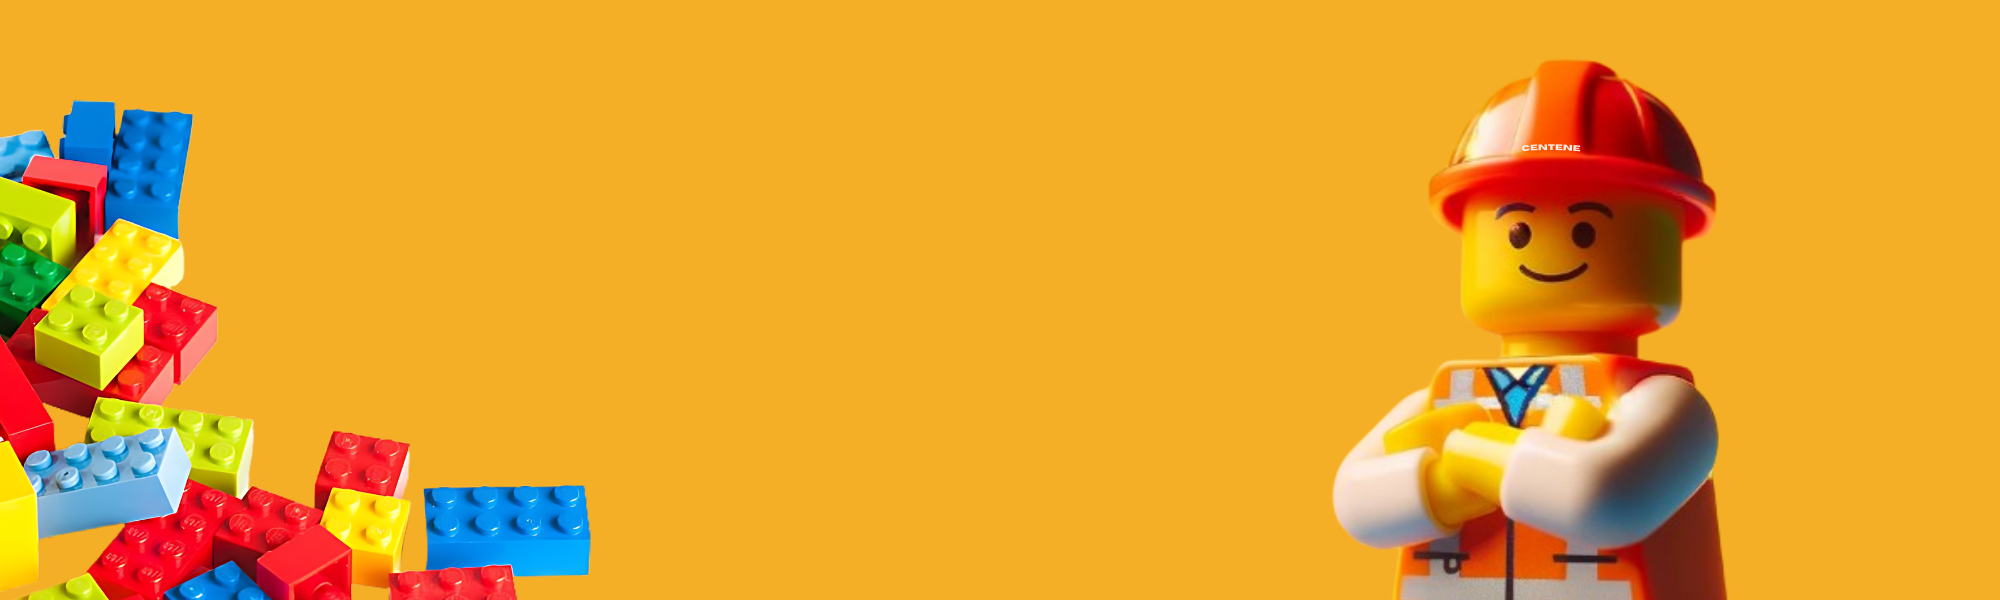
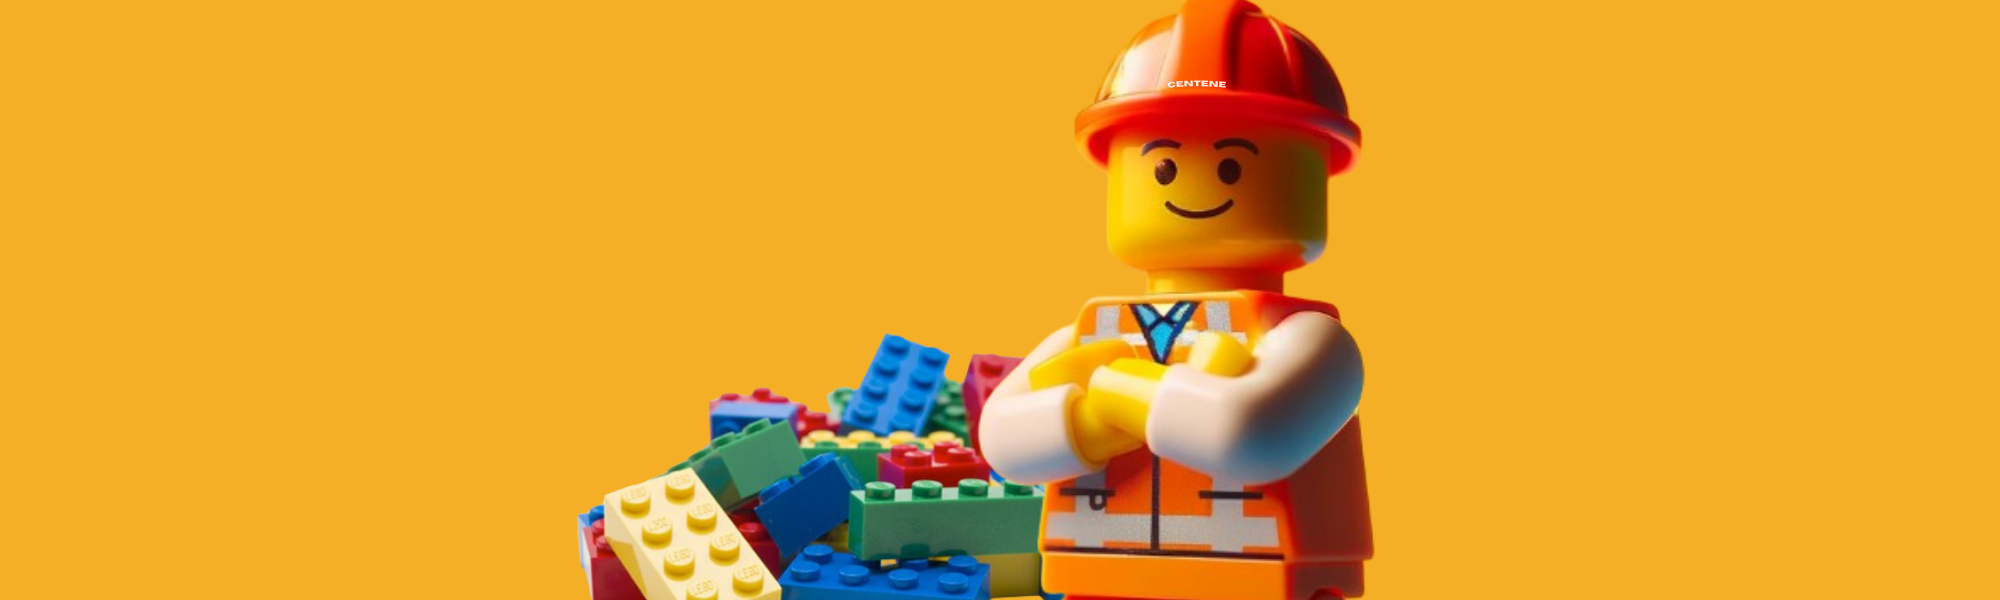
Update navigation script for mobile

diff --git a/index.html b/index.html
@@ -51,8 +51,6 @@
 								<h2>Architecture Day 2024</h2>
 								<p>Building blocks for our future.</p>
 							</header>
-							<img src="./images/legoguy2.png" id="logo-right" class="logo">
-							<img src="./images/legomess.png" id="logo-left" class="logo">
 						</section>
 
 					<!-- Intro -->
@@ -333,9 +331,8 @@
 						</div>
 					</div>
 				</section>
-
-			<!-- Footer -->
-				<!-- Footer -->
+		
+<!-- Footer -->				
 <section id="footer">
     <div class="container">
         <header>
@@ -361,22 +358,36 @@
 				document.addEventListener('DOMContentLoaded', function () {
 					const navLinks = document.querySelectorAll('#nav a'); // Select all anchor tags inside the nav element
 			
-					navLinks.forEach(link => {
-						link.addEventListener('click', function (event) {
-							const targetId = event.target.getAttribute('href'); // Get the href attribute of the clicked link
-							const targetDetails = document.querySelector(targetId); // Select the details element by ID
+					const handleNavClick = (event) => {
+						event.preventDefault(); // Prevent default anchor click behavior
+						console.log('Nav link clicked:', event.target); // Debug statement
 			
-							if (targetDetails) {
-								targetDetails.open = true; // Open the details element
-								// Optionally close other details elements
-								document.querySelectorAll('details').forEach(detail => {
-									if (detail.id !== targetDetails.id) detail.open = false;
-								});
-							}
-						});
+						const targetId = event.target.getAttribute('href'); // Get the href attribute of the clicked link
+						const targetDetails = document.querySelector(targetId); // Select the details element by ID
+			
+						if (targetDetails) {
+							console.log('Target details found:', targetDetails); // Debug statement
+							targetDetails.open = true; // Open the details element
+			
+							// Optionally close other details elements
+							document.querySelectorAll('details').forEach(detail => {
+								if (detail.id !== targetDetails.id) detail.open = false;
+							});
+			
+							// Scroll to the target element smoothly
+							targetDetails.scrollIntoView({ behavior: 'smooth' });
+						} else {
+							console.log('Target details not found for:', targetId); // Debug statement
+						}
+					};
+			
+					navLinks.forEach(link => {
+						link.addEventListener('click', handleNavClick);
+						link.addEventListener('touchstart', handleNavClick); // Add touchstart event for mobile devices
 					});
 				});
 			</script>
+
 
 			<!--schedule functionality-->
 			<script>

diff --git a/assets/css/main.css b/assets/css/main.css
@@ -31,6 +31,9 @@ footer, header, hgroup, menu, nav, section {
 
 body {
 	line-height: 1;
+	margin: 0;
+    padding: 0;
+    overflow-x: hidden;
 }
 
 ol, ul {
@@ -2174,8 +2177,9 @@ input, select, textarea {
 
 	#banner {
 		background: #F4AF27;
-		background-position: center center;
-		background-size: auto 100%;
+		background-image: url('../../images/Legobanner2.png');
+		background-position: center;
+		background-size: cover;
 		background-repeat: no-repeat;
 		text-align: center;
 		position: relative;
@@ -2191,17 +2195,10 @@ input, select, textarea {
 		top: 50%;
 		transform: translateY(-50%);
 	}
-	
-	#logo-left {
-		left: 20px; /* Adjust spacing from the left */
-	}
-	
-	#logo-right {
-		right: 20px; /* Adjust spacing from the right */
-	}
+
 
 		#banner header {
-			background-color: rgba(34, 30, 31, 0.98);
+			background-color: rgba(34, 30, 31, 0.7); /* Adjusted for more transparency */
 			display: inline-block;
 			padding: 2.5em 5em;
 			border-radius: 5px;
@@ -2215,7 +2212,7 @@ input, select, textarea {
 			}
 
 			#banner header p {
-				color: #d52349;
+				color: #e6e1e2;
 				padding: 0;
 				font-style: normal;
 				margin: 0;
@@ -2964,6 +2961,32 @@ input, select, textarea {
 		margin-top: 20px;
 	}
 
+	/* Make the schedule section responsive */
+#schedule {
+    width: 100%;
+    overflow-x: auto;
+    padding: 1em;
+}
+
+/* Make table responsive */
+#schedule table {
+    width: 100%;
+    border-collapse: collapse;
+    table-layout: fixed;
+}
+
+#schedule table th, #schedule table td {
+    padding: 0.5em;
+    text-align: left;
+    word-wrap: break-word; /* Ensure content wraps within the cell */
+}
+
+.schedule-nav {
+    display: flex;
+    justify-content: space-around;
+    margin-bottom: 1em;
+}
+
 	.day-btn {
 		background-color: #F4AF27; /* Default background color */
 		color: #333; /* Default text color */
@@ -2984,6 +3007,21 @@ input, select, textarea {
 		color: #fff; /* White text color for contrast */
 	}
 	
-	
+/* Adjusting for small screens */
+@media screen and (max-width: 768px) {
+    #schedule table th, #schedule table td {
+        padding: 0.3em;
+        font-size: 0.9em;
+    }
+
+    .schedule-nav {
+        flex-direction: column;
+        align-items: stretch;
+    }
+
+    .day-btn {
+        margin: 0.2em 0;
+    }
+}
 	
 	
